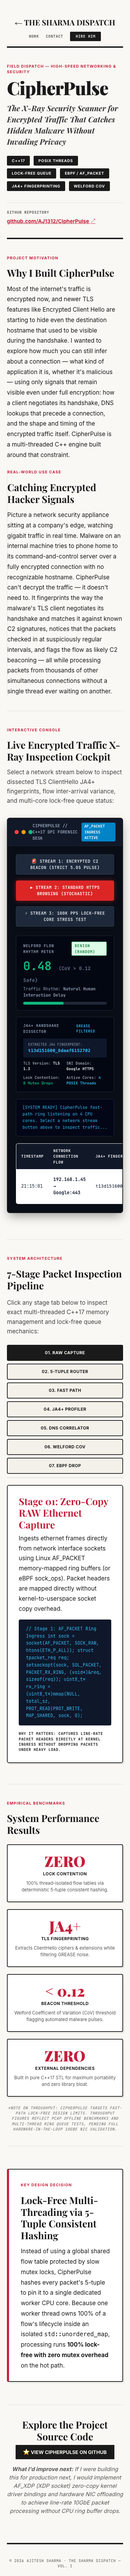
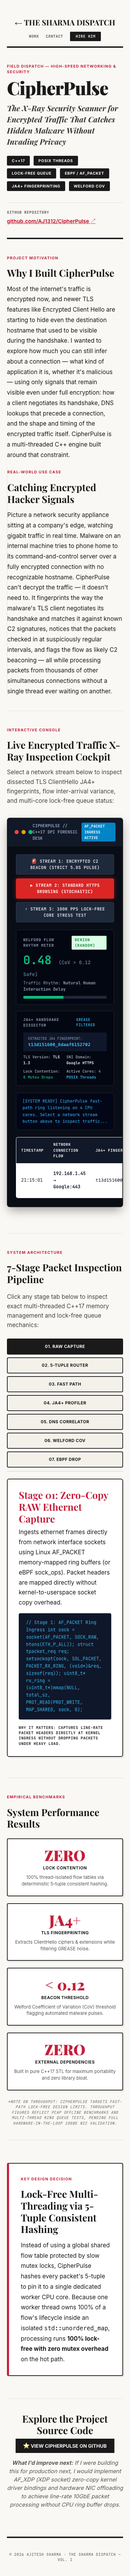
Optimize Available for Action button group for mobile screens with clean stacking and zero overflow

Changed region(s): [[0.0587, 0.3424, 0.968, 0.9959]]

diff --git a/css/styles.css b/css/styles.css
@@ -1450,6 +1450,49 @@ hr.section-rule--double, div.section-rule--double {
     color: var(--ink);
 }
 
+/* Action Button Group in Footer & Contact */
+.action-btn-group {
+    display: flex;
+    gap: 16px;
+    justify-content: center;
+    align-items: center;
+    flex-wrap: wrap;
+    margin-bottom: 50px;
+}
+.action-btn-link {
+    display: inline-flex;
+    align-items: center;
+    justify-content: center;
+    padding: 14px 28px;
+    font-size: 13px;
+    font-weight: 700;
+    text-transform: uppercase;
+    letter-spacing: 0.5px;
+    text-decoration: none;
+    border-radius: 3px;
+    transition: transform 0.2s ease, opacity 0.2s ease, box-shadow 0.2s ease;
+    white-space: nowrap;
+}
+.action-btn-link:hover {
+    transform: translateY(-2px);
+    box-shadow: 0 4px 12px rgba(0,0,0,0.15);
+}
+.action-btn-primary {
+    background: var(--stamp);
+    color: #ffffff !important;
+    border: 1px solid var(--stamp);
+}
+.action-btn-secondary {
+    background: var(--ink);
+    color: var(--paper) !important;
+    border: 1px solid var(--ink);
+}
+.action-btn-outline {
+    background: transparent;
+    border: 1px solid var(--ink);
+    color: var(--ink) !important;
+}
+
 @media screen and (max-width: 768px) {
     .metrics-row {
         grid-template-columns: repeat(2, 1fr);
@@ -1495,6 +1538,19 @@ hr.section-rule--double, div.section-rule--double {
         flex: 1 1 calc(50% - 10px);
         text-align: center;
     }
+    .action-btn-group {
+        flex-direction: column;
+        gap: 12px;
+        width: 100%;
+        max-width: 320px;
+        margin: 0 auto 40px auto;
+    }
+    .action-btn-link {
+        width: 100%;
+        text-align: center;
+        padding: 14px 20px;
+        box-sizing: border-box;
+    }
 }
 
 @media screen and (max-width: 480px) {
@@ -1504,5 +1560,10 @@ hr.section-rule--double, div.section-rule--double {
     .metrics-grid-4 {
         grid-template-columns: 1fr !important;
     }
+    .action-btn-group {
+        max-width: 100%;
+        padding: 0 10px;
+    }
 }
+
 

diff --git a/index.html b/index.html
@@ -928,48 +928,22 @@
               to Vellore, India.
             </p>
 
-            <div
-              style="
-                display: flex;
-                gap: 20px;
-                justify-content: center;
-                margin-bottom: 60px;
-              "
-            >
+            <div class="action-btn-group">
               <a
                 href="mailto:13ajitesh@gmail.com"
-                class="meta bold"
-                style="
-                  background: var(--stamp);
-                  color: var(--paper-bright);
-                  padding: 15px 30px;
-                  font-size: 14px;
-                "
+                class="meta bold action-btn-link action-btn-primary"
                 >13AJITESH@GMAIL.COM</a
               >
               <a
                 href="https://linkedin.com/in/ajitesh-sharma"
                 target="_blank"
-                class="meta bold"
-                style="
-                  background: var(--ink);
-                  color: var(--paper);
-                  padding: 15px 30px;
-                  font-size: 14px;
-                "
+                class="meta bold action-btn-link action-btn-secondary"
                 >LINKEDIN</a
               >
               <a
                 href="https://github.com/AJ1312"
                 target="_blank"
-                class="meta bold"
-                style="
-                  background: transparent;
-                  border: 1px solid var(--ink);
-                  color: var(--ink);
-                  padding: 15px 30px;
-                  font-size: 14px;
-                "
+                class="meta bold action-btn-link action-btn-outline"
                 >GITHUB</a
               >
             </div>
